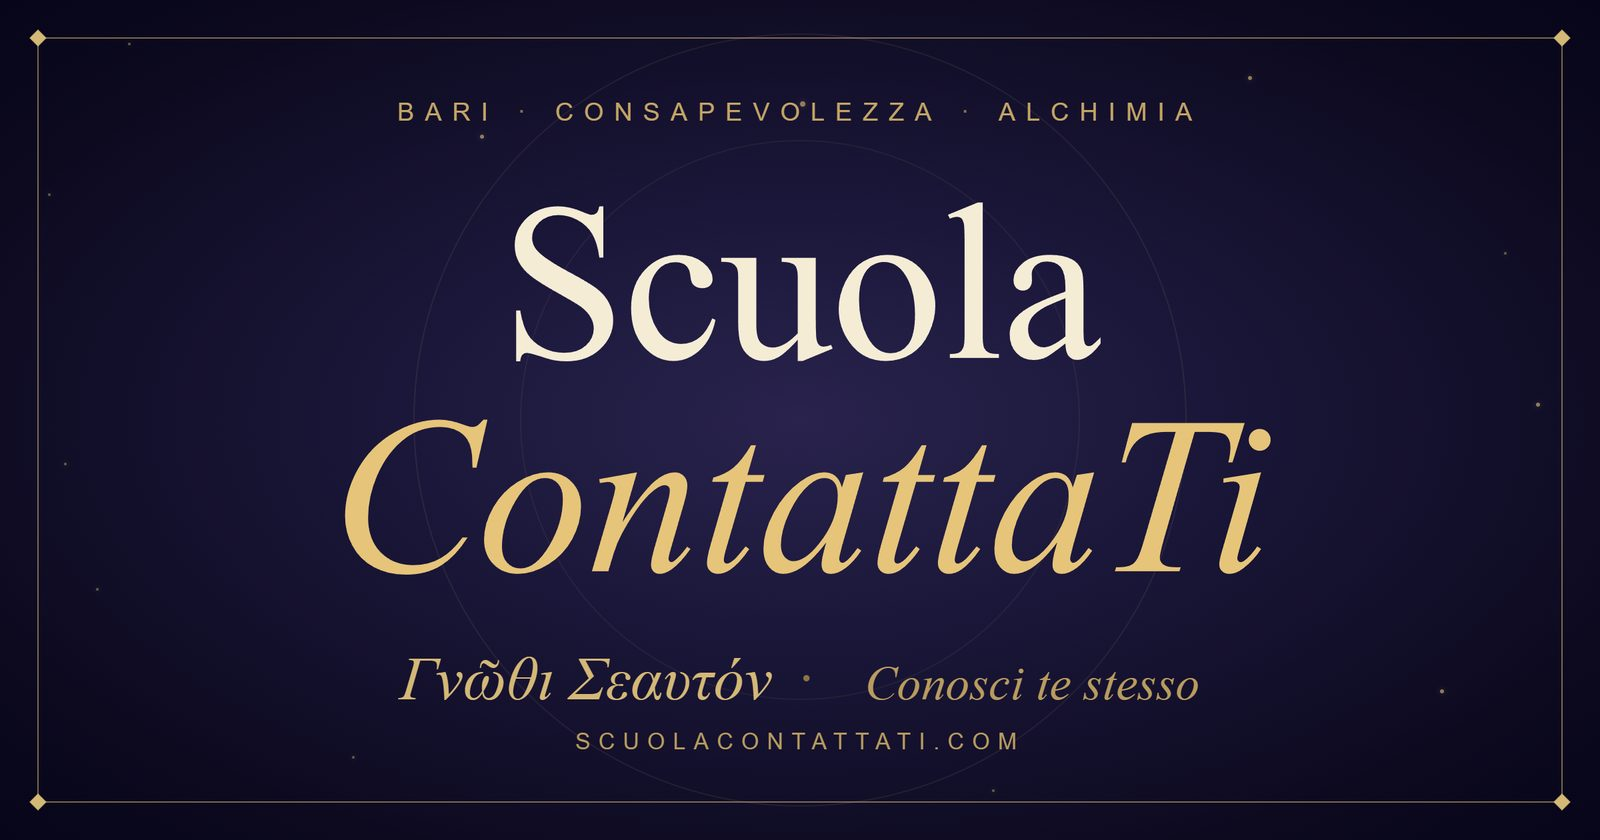
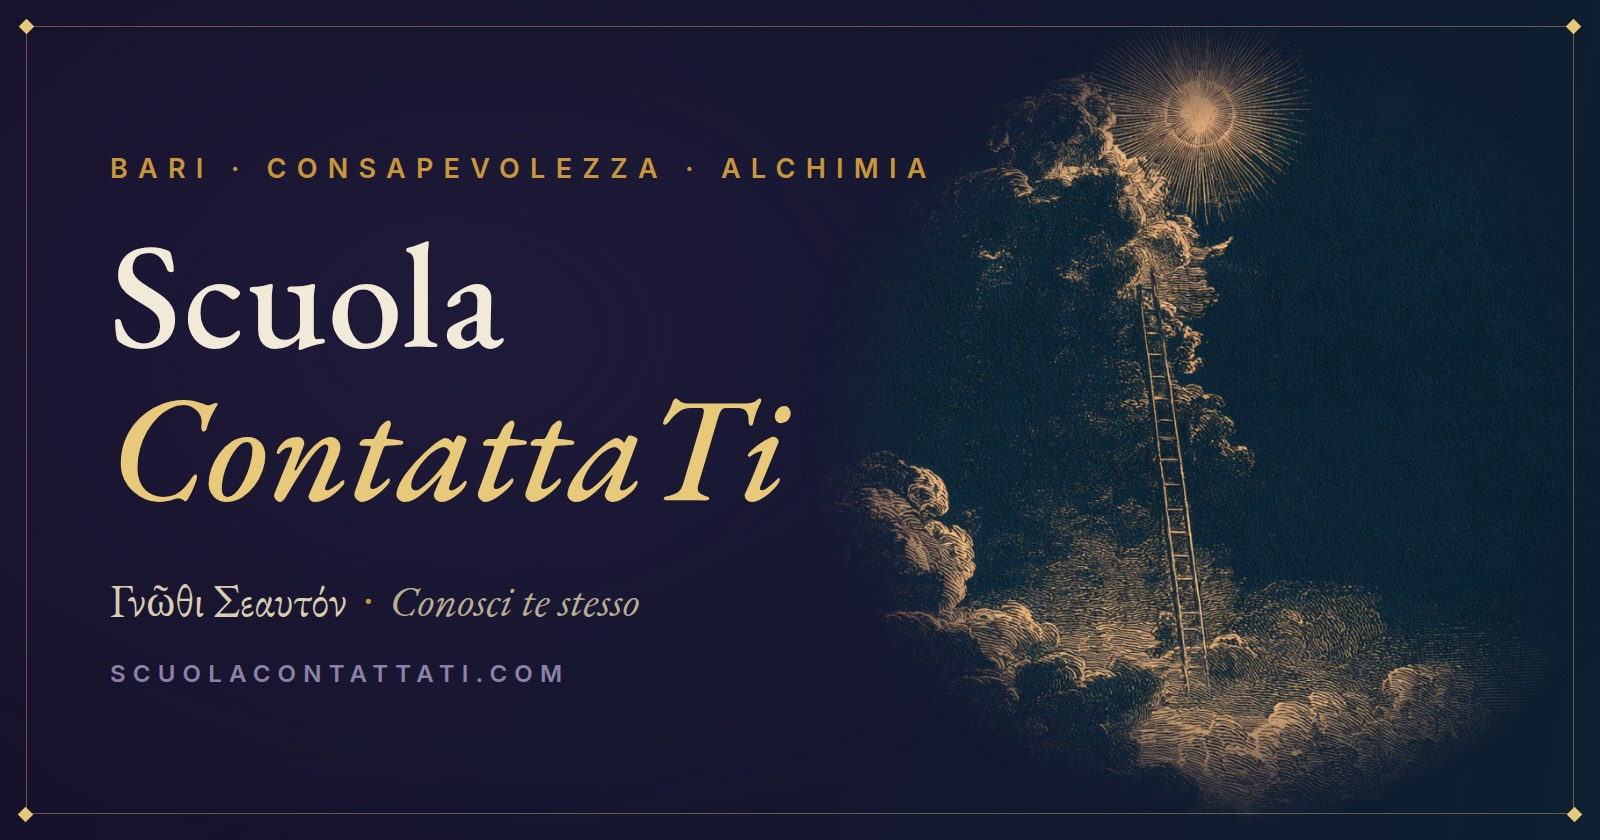
Nuova immagine Open Graph con la scala verso il sole
L'anteprima di condivisione social riprende ora l'identità visiva delle
nuove illustrazioni: incisione della scala tra le nuvole a destra,
tipografia invariata (Scuola ContattaTi, motto greco, dominio) a
sinistra, cornice oro con diamanti agli angoli. Stesso formato
1600x840 e stesso percorso og-image.jpg; aggiunto ?v=2 ai meta delle
pagine principali per invalidare la cache di WhatsApp/Facebook.

Claude-Session: https://claude.ai/code/session_01HB2prtVDZr74p9yJViQTbp

diff --git a/index.html b/index.html
@@ -87,14 +87,14 @@
   <meta property="og:site_name" content="Scuola ContattaTi"/>
   <meta property="og:url" content="https://scuolacontattati.com/"/>
   <meta property="og:locale" content="it_IT"/>
-  <meta property="og:image" content="https://scuolacontattati.com/og-image.jpg"/>
+  <meta property="og:image" content="https://scuolacontattati.com/og-image.jpg?v=2"/>
   <meta property="og:image:width" content="1600"/>
   <meta property="og:image:height" content="840"/>
   <meta property="og:image:alt" content="Scuola di Consapevolezza ed Alchimia · Conduttori: Anna Carla Digregorio &amp; Nicolaos Anifantis. Γνῶθι Σεαυτόν · Conosci Te Stesso."/>
   <meta name="twitter:card" content="summary_large_image"/>
   <meta name="twitter:title" content="Scuola ContattaTi · Consapevolezza ed Alchimia a Bari"/>
   <meta name="twitter:description" content="Scuola di Consapevolezza ed Alchimia a Bari. Percorso di conoscenza di sé tra Antichi Insegnamenti e 96 Leggi dell'Universo."/>
-  <meta name="twitter:image" content="https://scuolacontattati.com/og-image.jpg"/>
+  <meta name="twitter:image" content="https://scuolacontattati.com/og-image.jpg?v=2"/>
 
   <!-- Structured data — Schema.org JSON-LD -->
   <script type="application/ld+json">
@@ -114,8 +114,8 @@
         "alternateName": "Scuola di Consapevolezza ed Alchimia",
         "description": "Percorso di Consapevolezza ed Alchimia a Bari e online. Studio e pratica di Alchimia trasmutativa, Insegnamenti Cristici, Enneagramma, Antroposofia, Teosofia, Cabala e insegnamenti Arcano-Esoterici.",
         "url": "https://scuolacontattati.com",
-        "image": "https://scuolacontattati.com/og-image.jpg",
-        "logo": "https://scuolacontattati.com/og-image.jpg",
+        "image": "https://scuolacontattati.com/og-image.jpg?v=2",
+        "logo": "https://scuolacontattati.com/og-image.jpg?v=2",
         "email": "scuola-contattati@libero.it",
         "telephone": "+39-334-999-1888",
         "sameAs": [

diff --git a/en/index.html b/en/index.html
@@ -89,14 +89,14 @@
   <meta property="og:site_name" content="Scuola ContattaTi"/>
   <meta property="og:url" content="https://scuolacontattati.com/en/"/>
   <meta property="og:locale" content="en_GB"/>
-  <meta property="og:image" content="https://scuolacontattati.com/og-image.jpg"/>
+  <meta property="og:image" content="https://scuolacontattati.com/og-image.jpg?v=2"/>
   <meta property="og:image:width" content="1600"/>
   <meta property="og:image:height" content="840"/>
   <meta property="og:image:alt" content="School of Awareness and Alchemy · Guides: Anna Carla Digregorio &amp; Nicolaos Anifantis. Γνῶθι Σεαυτόν · Know Thyself."/>
   <meta name="twitter:card" content="summary_large_image"/>
   <meta name="twitter:title" content="Scuola ContattaTi · Awareness & Alchemy in Bari"/>
   <meta name="twitter:description" content="School of Awareness and Alchemy in Bari. A path of self-knowledge through Ancient Teachings and the 96 Universal Laws."/>
-  <meta name="twitter:image" content="https://scuolacontattati.com/og-image.jpg"/>
+  <meta name="twitter:image" content="https://scuolacontattati.com/og-image.jpg?v=2"/>
 
   <!-- Structured data — Schema.org JSON-LD -->
   <script type="application/ld+json">
@@ -116,8 +116,8 @@
         "alternateName": "School of Awareness and Alchemy",
         "description": "Path of Awareness and Alchemy in Bari and online. Study and practice of transmutative Alchemy, Christic Teachings, the Enneagram, Anthroposophy, Theosophy, Kabbalah and Arcane-Esoteric teachings.",
         "url": "https://scuolacontattati.com",
-        "image": "https://scuolacontattati.com/og-image.jpg",
-        "logo": "https://scuolacontattati.com/og-image.jpg",
+        "image": "https://scuolacontattati.com/og-image.jpg?v=2",
+        "logo": "https://scuolacontattati.com/og-image.jpg?v=2",
         "email": "scuola-contattati@libero.it",
         "telephone": "+39-334-999-1888",
         "sameAs": [

diff --git a/en/privacy.html b/en/privacy.html
@@ -48,13 +48,13 @@
   <meta property="og:site_name" content="Scuola ContattaTi"/>
   <meta property="og:url" content="https://scuolacontattati.com/en/privacy.html"/>
   <meta property="og:locale" content="en_GB"/>
-  <meta property="og:image" content="https://scuolacontattati.com/og-image.jpg"/>
+  <meta property="og:image" content="https://scuolacontattati.com/og-image.jpg?v=2"/>
   <meta property="og:image:width" content="1424"/>
   <meta property="og:image:height" content="752"/>
   <meta name="twitter:card" content="summary_large_image"/>
   <meta name="twitter:title" content="Privacy & Cookies · Scuola ContattaTi"/>
   <meta name="twitter:description" content="Privacy and cookie notice for the Scuola ContattaTi website."/>
-  <meta name="twitter:image" content="https://scuolacontattati.com/og-image.jpg"/>
+  <meta name="twitter:image" content="https://scuolacontattati.com/og-image.jpg?v=2"/>
 
   <!-- Font preload -->
   <link rel="preload" href="../fonts/eb-garamond-latin-500-normal.woff2" as="font" type="font/woff2" crossorigin>

diff --git a/privacy.html b/privacy.html
@@ -48,13 +48,13 @@
   <meta property="og:site_name" content="Scuola ContattaTi"/>
   <meta property="og:url" content="https://scuolacontattati.com/privacy.html"/>
   <meta property="og:locale" content="it_IT"/>
-  <meta property="og:image" content="https://scuolacontattati.com/og-image.jpg"/>
+  <meta property="og:image" content="https://scuolacontattati.com/og-image.jpg?v=2"/>
   <meta property="og:image:width" content="1424"/>
   <meta property="og:image:height" content="752"/>
   <meta name="twitter:card" content="summary_large_image"/>
   <meta name="twitter:title" content="Privacy & Cookie · Scuola ContattaTi"/>
   <meta name="twitter:description" content="Informativa sulla privacy e sui cookie del sito Scuola ContattaTi."/>
-  <meta name="twitter:image" content="https://scuolacontattati.com/og-image.jpg"/>
+  <meta name="twitter:image" content="https://scuolacontattati.com/og-image.jpg?v=2"/>
 
   <!-- Font preload -->
   <link rel="preload" href="fonts/eb-garamond-latin-500-normal.woff2" as="font" type="font/woff2" crossorigin>
